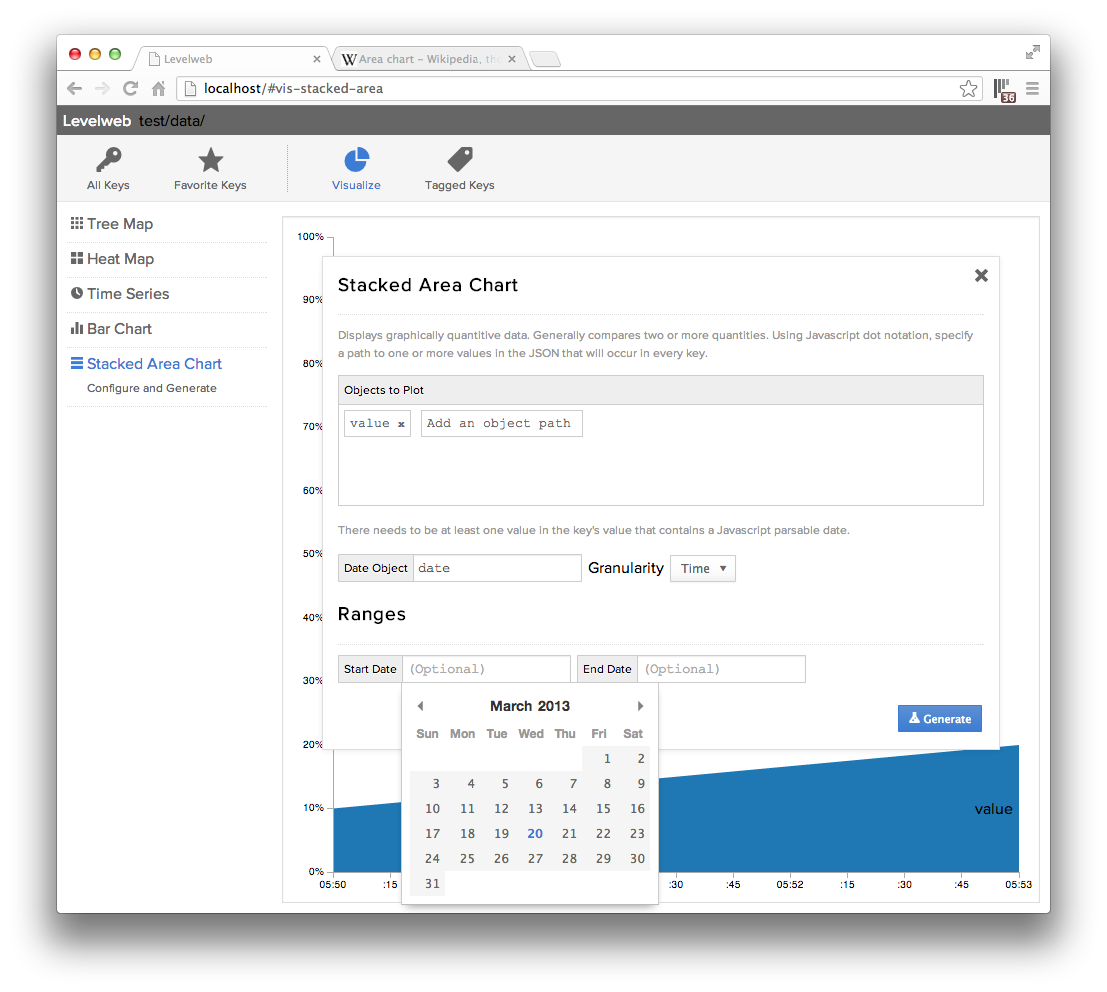
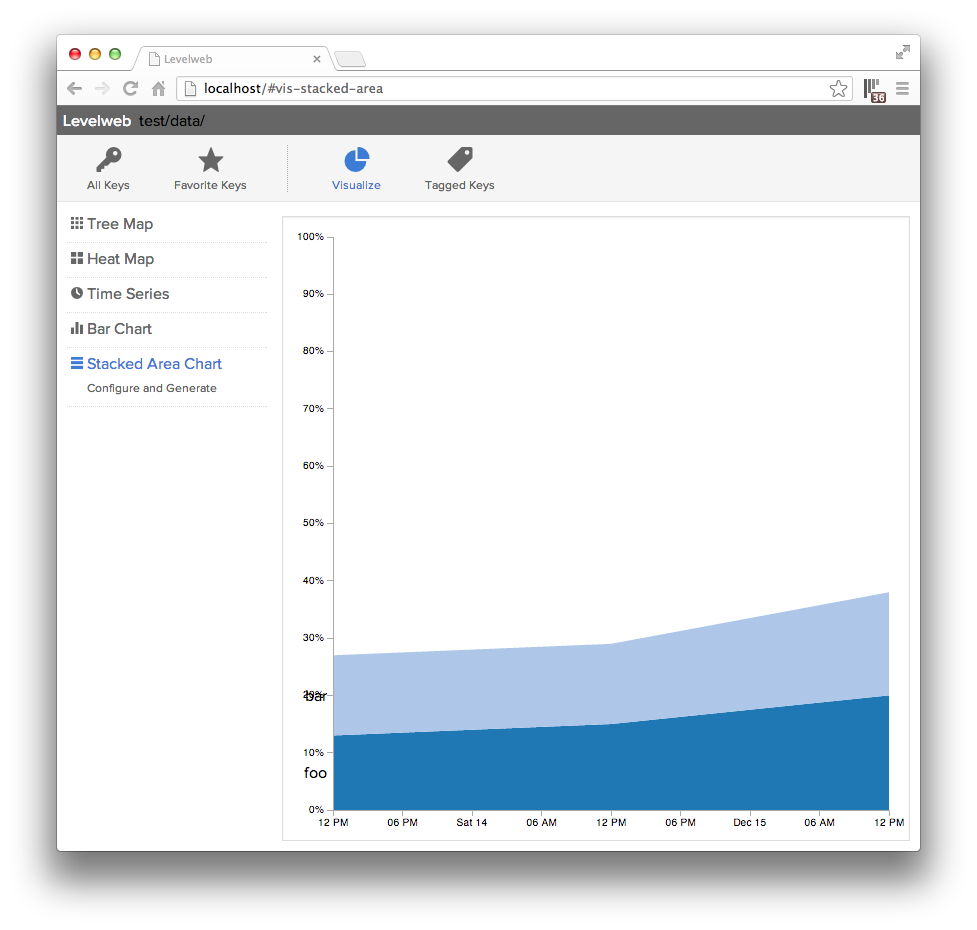
[app] much better UI/UX for visualizations

diff --git a/README.md b/README.md
@@ -44,3 +44,4 @@ simultaneously.
 A work in progress, not quite happy with the UI.
 
 ![screenshot](/screenshot3.png)
+![screenshot](/screenshot4.png)
